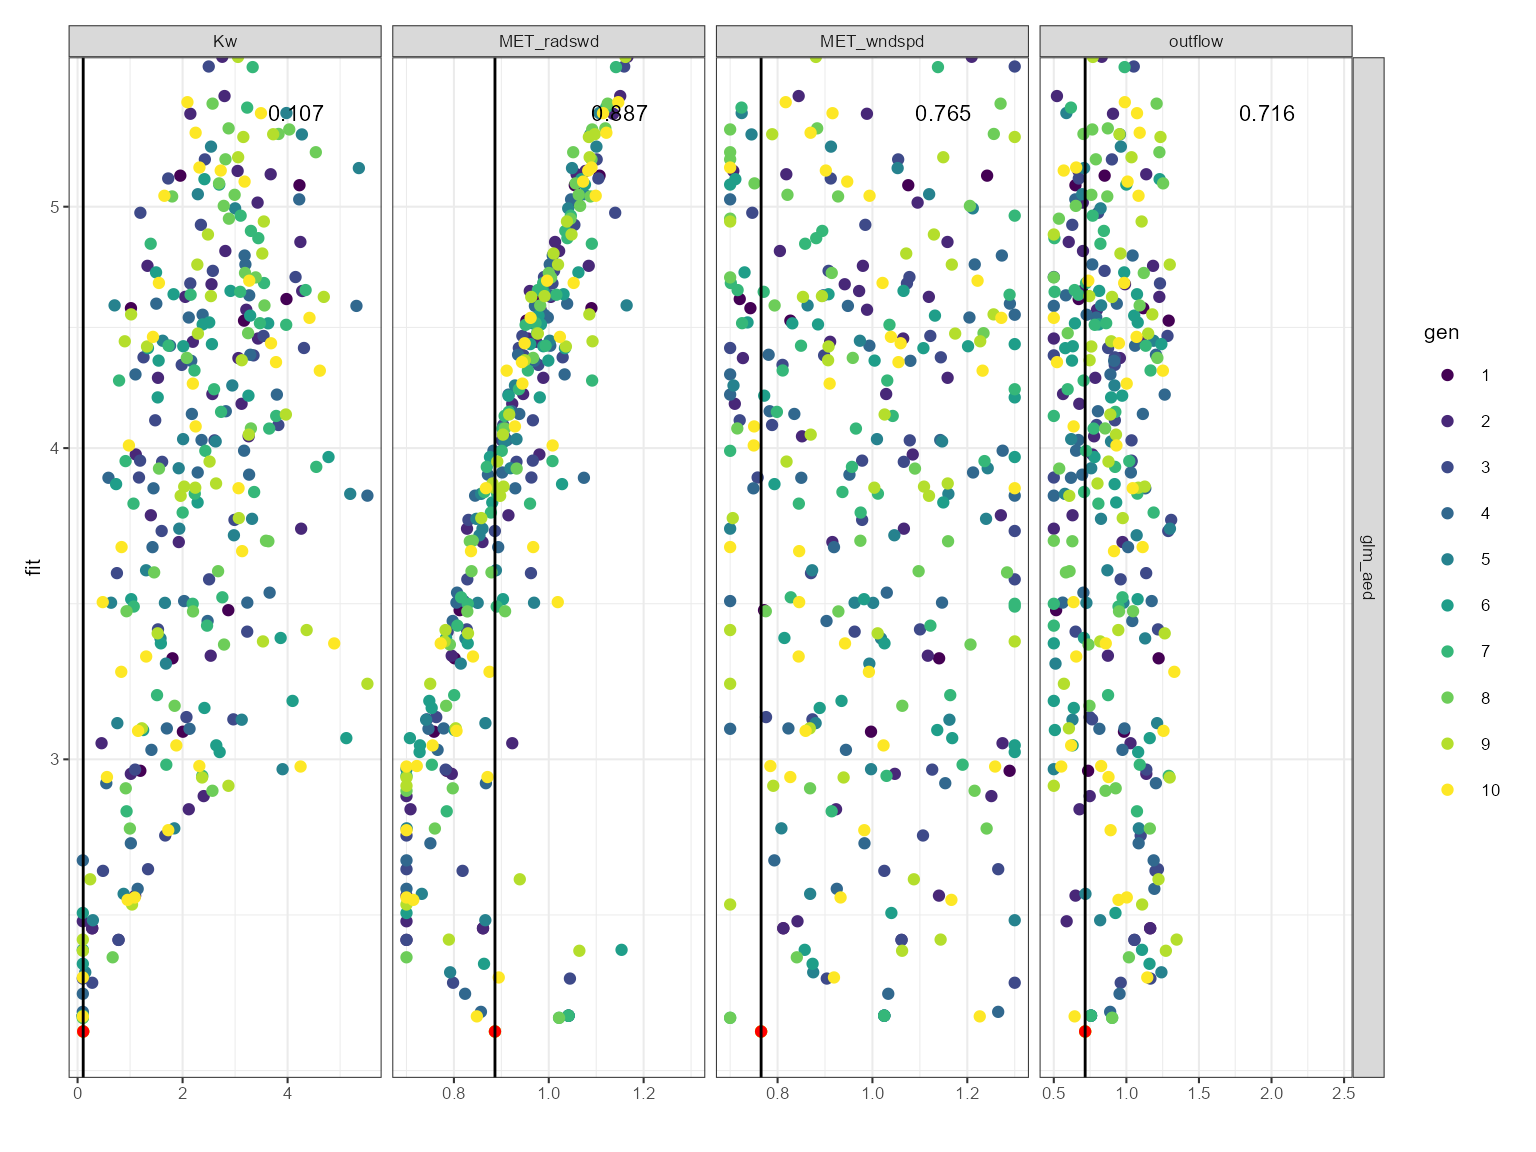
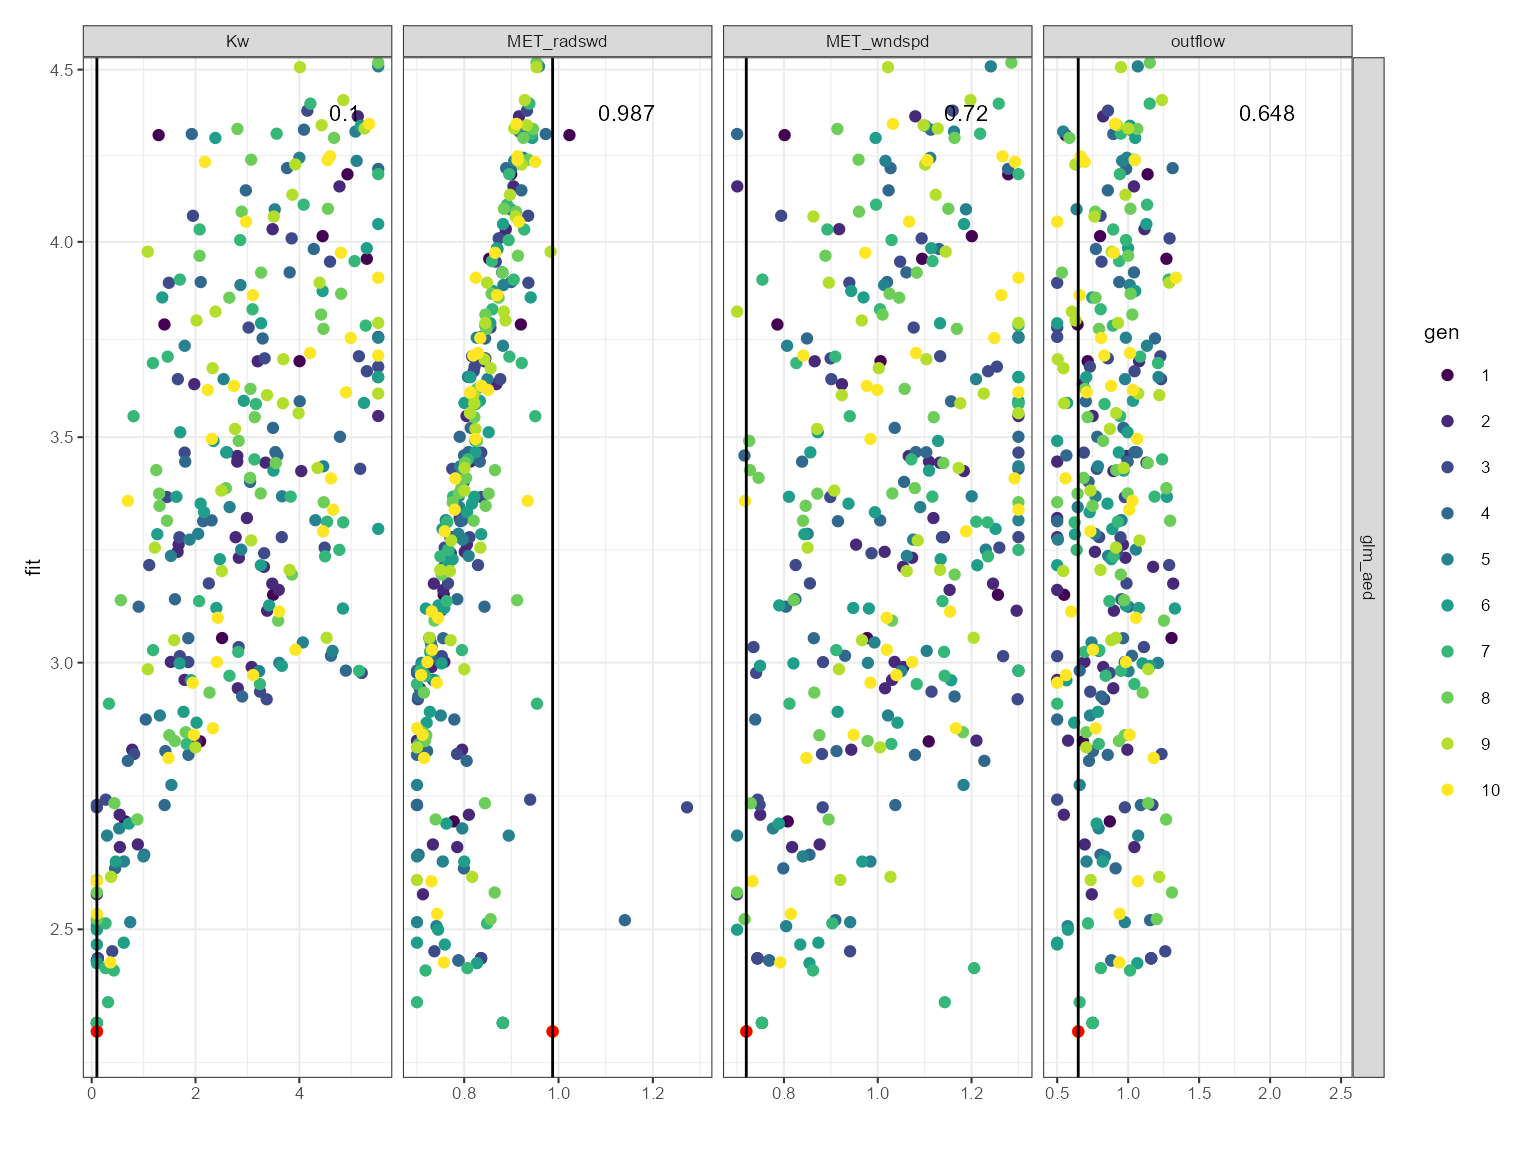
Deploying to gh-pages from @ limnotrack/aemetools@b27173b70d2d1a91780e690b47c5976b061a40e9 🚀

diff --git a/articles/calibrate-aeme.html b/articles/calibrate-aeme.html
@@ -123,7 +123,7 @@ setup. For this example, we will use the <code>glm_aed</code> model. The
 <span>                            model <span class="op">=</span> <span class="va">model</span>, mod_ctrls <span class="op">=</span> <span class="va">mod_ctrls</span>,</span>
 <span>                            inf_factor <span class="op">=</span> <span class="va">inf_factor</span>, ext_elev <span class="op">=</span> <span class="fl">5</span>,</span>
 <span>                            use_bgc <span class="op">=</span> <span class="cn">FALSE</span>, use_lw <span class="op">=</span> <span class="cn">TRUE</span><span class="op">)</span></span>
-<span><span class="co">#&gt; Building simulation for Wainamu [2023-11-02 09:55:29.867466]</span></span>
+<span><span class="co">#&gt; Building simulation for Wainamu [2023-11-03 00:59:42.915831]</span></span>
 <span><span class="co">#&gt; Using observed water level</span></span>
 <span><span class="co">#&gt; Estimating temperature using Stefan &amp; Preud'homme (2007)...</span></span>
 <span><span class="co">#&gt; Observed lake level is present. Updating initial lake model depth...</span></span>
@@ -135,9 +135,9 @@ make sure the current model setup is working.</p>
 <code class="sourceCode R"><span><span class="va">aeme_data</span> <span class="op">&lt;-</span> <span class="fu"><a href="https://rdrr.io/pkg/AEME/man/run_aeme.html" class="external-link">run_aeme</a></span><span class="op">(</span>aeme_data <span class="op">=</span> <span class="va">aeme_data</span>, model <span class="op">=</span> <span class="va">model</span>,</span>
 <span>                      verbose <span class="op">=</span> <span class="cn">FALSE</span>, mod_ctrls <span class="op">=</span> <span class="va">mod_ctrls</span>,</span>
 <span>                      path <span class="op">=</span> <span class="va">path</span><span class="op">)</span></span>
-<span><span class="co">#&gt; Running models... (Have you tried parallelizing?) [2023-11-02 09:55:31.192733]</span></span>
-<span><span class="co">#&gt; GLM-AED run successful! [2023-11-02 09:55:32.054809]</span></span>
-<span><span class="co">#&gt; Model run complete![2023-11-02 09:55:32.055938]</span></span>
+<span><span class="co">#&gt; Running models... (Have you tried parallelizing?) [2023-11-03 00:59:44.57077]</span></span>
+<span><span class="co">#&gt; GLM-AED run successful! [2023-11-03 00:59:45.437586]</span></span>
+<span><span class="co">#&gt; Model run complete![2023-11-03 00:59:45.438628]</span></span>
 <span><span class="co">#&gt; Retrieving and formatting temp for model glm_aed</span></span>
 <span><span class="co">#&gt; Retrieving and formatting salt for model glm_aed</span></span>
 <span><span class="co"># outp &lt;- AEME::output(aeme_data)</span></span>
@@ -238,9 +238,9 @@ but the model output is generate within the lake folder.</p>
 <div class="sourceCode" id="cb7"><pre class="downlit sourceCode r">
 <code class="sourceCode R"><span><span class="fu"><a href="../reference/run_aeme_param.html">run_aeme_param</a></span><span class="op">(</span>aeme_data <span class="op">=</span> <span class="va">aeme_data</span>, param <span class="op">=</span> <span class="va">aeme_parameters</span>,</span>
 <span>                 model <span class="op">=</span> <span class="va">model</span>, path <span class="op">=</span> <span class="va">path</span>, mod_ctrls <span class="op">=</span> <span class="va">mod_ctrls</span><span class="op">)</span></span>
-<span><span class="co">#&gt; Running models... (Have you tried parallelizing?) [2023-11-02 09:55:43.768336]</span></span>
-<span><span class="co">#&gt; GLM-AED run successful! [2023-11-02 09:55:44.510974]</span></span>
-<span><span class="co">#&gt; Model run complete![2023-11-02 09:55:44.512259]</span></span></code></pre></div>
+<span><span class="co">#&gt; Running models... (Have you tried parallelizing?) [2023-11-03 00:59:49.646355]</span></span>
+<span><span class="co">#&gt; GLM-AED run successful! [2023-11-03 00:59:50.492081]</span></span>
+<span><span class="co">#&gt; Model run complete![2023-11-03 00:59:50.493055]</span></span></code></pre></div>
 </div>
 <div class="section level2">
 <h2 id="calibration-setup">Calibration setup<a class="anchor" aria-label="anchor" href="#calibration-setup"></a>
@@ -374,83 +374,83 @@ values.</p>
 <span>                   param <span class="op">=</span> <span class="va">aeme_parameters</span>, model <span class="op">=</span> <span class="va">model</span>,</span>
 <span>                   mod_ctrls <span class="op">=</span> <span class="va">mod_ctrls</span>, FUN <span class="op">=</span> <span class="va">fit</span>, ctrl <span class="op">=</span> <span class="va">ctrl</span>,</span>
 <span>                   vars_sim <span class="op">=</span> <span class="va">vars_sim</span>, weights <span class="op">=</span> <span class="va">weights</span><span class="op">)</span></span>
-<span><span class="co">#&gt; Extracting indices for modelled variables [2023-11-02 09:55:44.886528]</span></span>
-<span><span class="co">#&gt; Complete! [2023-11-02 09:55:45.845645]</span></span>
+<span><span class="co">#&gt; Extracting indices for modelled variables [2023-11-03 00:59:50.892015]</span></span>
+<span><span class="co">#&gt; Complete! [2023-11-03 00:59:51.927541]</span></span>
 <span><span class="co">#&gt; Calibrating in parallel using 1 cores...</span></span>
-<span><span class="co">#&gt; Starting generation 1/10, 40 members. [2023-11-02 09:55:46.126752]</span></span>
+<span><span class="co">#&gt; Starting generation 1/10, 40 members. [2023-11-03 00:59:52.292958]</span></span>
 <span><span class="co">#&gt;        light.Kw MET_wndspd MET_radswd outflow</span></span>
-<span><span class="co">#&gt; mean      2.813     0.9997     0.9994  1.5000</span></span>
-<span><span class="co">#&gt; median    2.805     1.0040     0.9954  1.4780</span></span>
-<span><span class="co">#&gt; sd        1.596     0.1748     0.1753  0.5848</span></span>
-<span><span class="co">#&gt; Best fit: 2.566 (sd: 327.528)</span></span>
-<span><span class="co">#&gt;             Parameters: [0.278, 0.812, 0.861, 1.164]</span></span>
+<span><span class="co">#&gt; mean      2.805     0.9993     0.9998  1.5020</span></span>
+<span><span class="co">#&gt; median    2.791     0.9994     0.9957  1.4850</span></span>
+<span><span class="co">#&gt; sd        1.586     0.1740     0.1753  0.5837</span></span>
+<span><span class="co">#&gt; Best fit: 2.451 (sd: 327.23)</span></span>
+<span><span class="co">#&gt;             Parameters: [0.118, 0.743, 0.836, 1.162]</span></span>
 <span><span class="co">#&gt; Survival rate: 1</span></span>
-<span><span class="co">#&gt; Starting generation 2/10, 40 members. [2023-11-02 09:56:23.706571]</span></span>
+<span><span class="co">#&gt; Starting generation 2/10, 40 members. [2023-11-03 01:00:35.014708]</span></span>
 <span><span class="co">#&gt;        light.Kw MET_wndspd MET_radswd outflow</span></span>
-<span><span class="co">#&gt; mean      2.231     0.9955     0.9521  0.9367</span></span>
-<span><span class="co">#&gt; median    2.195     0.9887     0.9600  0.8304</span></span>
-<span><span class="co">#&gt; sd        1.111     0.1576     0.1469  0.3383</span></span>
-<span><span class="co">#&gt; Best fit: 2.5389 (sd: 209.28)</span></span>
+<span><span class="co">#&gt; mean      2.681     1.0090     0.8231  1.0320</span></span>
+<span><span class="co">#&gt; median    2.821     1.0160     0.7957  0.9629</span></span>
+<span><span class="co">#&gt; sd        1.450     0.1609     0.1153  0.4922</span></span>
+<span><span class="co">#&gt; Best fit: 2.4509 (sd: 236.8)</span></span>
 <span><span class="co">#&gt; Survival rate: 1</span></span>
-<span><span class="co">#&gt; Starting generation 3/10, 40 members. [2023-11-02 09:57:04.452477]</span></span>
+<span><span class="co">#&gt; Starting generation 3/10, 40 members. [2023-11-03 01:01:19.537972]</span></span>
 <span><span class="co">#&gt;        light.Kw MET_wndspd MET_radswd outflow</span></span>
-<span><span class="co">#&gt; mean      1.852     0.9691     0.9124  1.0240</span></span>
-<span><span class="co">#&gt; median    1.669     0.9782     0.9369  1.0350</span></span>
-<span><span class="co">#&gt; sd        1.117     0.1821     0.1250  0.2884</span></span>
-<span><span class="co">#&gt; Best fit: 2.3672 (sd: 186.66)</span></span>
+<span><span class="co">#&gt; mean      2.770     1.0080     0.8536  1.0050</span></span>
+<span><span class="co">#&gt; median    2.831     0.9661     0.8222  0.9764</span></span>
+<span><span class="co">#&gt; sd        1.727     0.1936     0.1498  0.3299</span></span>
+<span><span class="co">#&gt; Best fit: 2.4474 (sd: 185.47)</span></span>
 <span><span class="co">#&gt; Survival rate: 1</span></span>
-<span><span class="co">#&gt; Starting generation 4/10, 40 members. [2023-11-02 09:57:44.311551]</span></span>
+<span><span class="co">#&gt; Starting generation 4/10, 40 members. [2023-11-03 01:02:04.70572]</span></span>
 <span><span class="co">#&gt;        light.Kw MET_wndspd MET_radswd outflow</span></span>
-<span><span class="co">#&gt; mean      2.207     0.9835    0.90330  0.9684</span></span>
-<span><span class="co">#&gt; median    2.132     0.9515    0.91520  0.9530</span></span>
-<span><span class="co">#&gt; sd        1.334     0.1981    0.09978  0.3292</span></span>
-<span><span class="co">#&gt; Best fit: 2.3672 (sd: 178.18)</span></span>
+<span><span class="co">#&gt; mean      2.624     1.0140     0.8439  0.9268</span></span>
+<span><span class="co">#&gt; median    2.898     1.0360     0.8139  0.9114</span></span>
+<span><span class="co">#&gt; sd        1.529     0.1776     0.1146  0.2417</span></span>
+<span><span class="co">#&gt; Best fit: 2.345 (sd: 118.21)</span></span>
 <span><span class="co">#&gt; Survival rate: 1</span></span>
-<span><span class="co">#&gt; Starting generation 5/10, 40 members. [2023-11-02 09:58:24.238746]</span></span>
+<span><span class="co">#&gt; Starting generation 5/10, 40 members. [2023-11-03 01:02:50.378204]</span></span>
 <span><span class="co">#&gt;        light.Kw MET_wndspd MET_radswd outflow</span></span>
-<span><span class="co">#&gt; mean      2.077     0.9951     0.9518  1.0320</span></span>
-<span><span class="co">#&gt; median    1.926     0.9981     0.9192  0.9525</span></span>
-<span><span class="co">#&gt; sd        1.385     0.1605     0.1509  0.3898</span></span>
-<span><span class="co">#&gt; Best fit: 2.3672 (sd: 234.4)</span></span>
+<span><span class="co">#&gt; mean      3.017     1.0520    0.82450  1.0200</span></span>
+<span><span class="co">#&gt; median    2.968     1.0670    0.80030  0.9763</span></span>
+<span><span class="co">#&gt; sd        1.734     0.1775    0.09415  0.4058</span></span>
+<span><span class="co">#&gt; Best fit: 2.345 (sd: 223.28)</span></span>
 <span><span class="co">#&gt; Survival rate: 1</span></span>
-<span><span class="co">#&gt; Starting generation 6/10, 40 members. [2023-11-02 09:59:03.697887]</span></span>
+<span><span class="co">#&gt; Starting generation 6/10, 40 members. [2023-11-03 01:03:34.892398]</span></span>
 <span><span class="co">#&gt;        light.Kw MET_wndspd MET_radswd outflow</span></span>
-<span><span class="co">#&gt; mean      2.439     1.0060     0.9818  0.9572</span></span>
-<span><span class="co">#&gt; median    2.559     1.0070     0.9834  0.9191</span></span>
-<span><span class="co">#&gt; sd        1.266     0.1907     0.1682  0.4285</span></span>
-<span><span class="co">#&gt; Best fit: 2.3672 (sd: 180.42)</span></span>
+<span><span class="co">#&gt; mean      2.562     0.9847    0.80870  0.9324</span></span>
+<span><span class="co">#&gt; median    2.175     0.9670    0.80610  0.9340</span></span>
+<span><span class="co">#&gt; sd        1.730     0.1790    0.07234  0.3289</span></span>
+<span><span class="co">#&gt; Best fit: 2.345 (sd: 182.9)</span></span>
 <span><span class="co">#&gt; Survival rate: 1</span></span>
-<span><span class="co">#&gt; Starting generation 7/10, 40 members. [2023-11-02 09:59:44.33609]</span></span>
+<span><span class="co">#&gt; Starting generation 7/10, 40 members. [2023-11-03 01:04:19.840863]</span></span>
 <span><span class="co">#&gt;        light.Kw MET_wndspd MET_radswd outflow</span></span>
-<span><span class="co">#&gt; mean      2.432     0.9690     0.9552  0.9164</span></span>
-<span><span class="co">#&gt; median    2.433     0.9652     0.9622  0.8449</span></span>
-<span><span class="co">#&gt; sd        1.127     0.1882     0.1133  0.3463</span></span>
-<span><span class="co">#&gt; Best fit: 2.3624 (sd: 185.12)</span></span>
+<span><span class="co">#&gt; mean      2.761     1.0540     0.8421  1.0120</span></span>
+<span><span class="co">#&gt; median    2.823     1.0830     0.8448  0.9382</span></span>
+<span><span class="co">#&gt; sd        1.745     0.1878     0.1110  0.3733</span></span>
+<span><span class="co">#&gt; Best fit: 2.3313 (sd: 189.96)</span></span>
 <span><span class="co">#&gt; Survival rate: 1</span></span>
-<span><span class="co">#&gt; Starting generation 8/10, 40 members. [2023-11-02 10:00:24.860836]</span></span>
+<span><span class="co">#&gt; Starting generation 8/10, 40 members. [2023-11-03 01:05:04.352137]</span></span>
 <span><span class="co">#&gt;        light.Kw MET_wndspd MET_radswd outflow</span></span>
-<span><span class="co">#&gt; mean      2.505     0.9519     0.9560  1.0160</span></span>
-<span><span class="co">#&gt; median    2.763     0.9276     0.9752  0.9019</span></span>
-<span><span class="co">#&gt; sd        1.120     0.1999     0.1303  0.4465</span></span>
-<span><span class="co">#&gt; Best fit: 2.3328 (sd: 220.6)</span></span>
+<span><span class="co">#&gt; mean      2.706     0.9856    0.84790  1.0410</span></span>
+<span><span class="co">#&gt; median    2.832     0.9955    0.84500  1.0000</span></span>
+<span><span class="co">#&gt; sd        1.507     0.1778    0.09623  0.3859</span></span>
+<span><span class="co">#&gt; Best fit: 2.3313 (sd: 203.18)</span></span>
 <span><span class="co">#&gt; Survival rate: 1</span></span>
-<span><span class="co">#&gt; Starting generation 9/10, 40 members. [2023-11-02 10:01:04.453316]</span></span>
+<span><span class="co">#&gt; Starting generation 9/10, 40 members. [2023-11-03 01:05:48.448981]</span></span>
 <span><span class="co">#&gt;        light.Kw MET_wndspd MET_radswd outflow</span></span>
-<span><span class="co">#&gt; mean      2.382     0.9625     0.9453  1.0000</span></span>
-<span><span class="co">#&gt; median    2.483     0.9392     0.9389  0.9590</span></span>
-<span><span class="co">#&gt; sd        1.329     0.1873     0.1499  0.2754</span></span>
-<span><span class="co">#&gt; Best fit: 2.3328 (sd: 153.71)</span></span>
+<span><span class="co">#&gt; mean      3.216     1.0540     0.8740  0.9471</span></span>
+<span><span class="co">#&gt; median    3.508     1.0850     0.8450  0.9145</span></span>
+<span><span class="co">#&gt; sd        1.564     0.1504     0.1162  0.3508</span></span>
+<span><span class="co">#&gt; Best fit: 2.3313 (sd: 180.54)</span></span>
 <span><span class="co">#&gt; Survival rate: 1</span></span>
-<span><span class="co">#&gt; Starting generation 10/10, 40 members. [2023-11-02 10:01:43.963268]</span></span>
+<span><span class="co">#&gt; Starting generation 10/10, 40 members. [2023-11-03 01:06:33.871577]</span></span>
 <span><span class="co">#&gt;        light.Kw MET_wndspd MET_radswd outflow</span></span>
-<span><span class="co">#&gt; mean      2.144     0.9533     0.9218  0.9713</span></span>
-<span><span class="co">#&gt; median    2.092     0.9189     0.9133  0.9488</span></span>
-<span><span class="co">#&gt; sd        1.349     0.1756     0.1348  0.3362</span></span>
-<span><span class="co">#&gt; Best fit: 2.3328 (sd: 196.77)</span></span>
+<span><span class="co">#&gt; mean      2.871     1.0210    0.81990  0.9874</span></span>
+<span><span class="co">#&gt; median    2.740     1.0190    0.81290  0.9404</span></span>
+<span><span class="co">#&gt; sd        1.666     0.1819    0.09704  0.3621</span></span>
+<span><span class="co">#&gt; Best fit: 2.3313 (sd: 221.66)</span></span>
 <span><span class="co">#&gt; Survival rate: 1</span></span></code></pre></div>
 </div>
-<div class="section level2 tabset">
-<h2 class="tabset" id="visualise-calibration-results">Visualise calibration results<a class="anchor" aria-label="anchor" href="#visualise-calibration-results"></a>
+<div class="section level2">
+<h2 id="visualise-calibration-results">Visualise calibration results<a class="anchor" aria-label="anchor" href="#visualise-calibration-results"></a>
 </h2>
 <p>The calibrations results can be read in using the
 <code>read_calib</code> function. This function takes the following
@@ -479,25 +479,15 @@ function. This function takes the following arguments:</p>
 calibration.</li>
 </ul>
 <p>And returns a list of ggplot objects: a dotty plot, density plot and
-caterpillar plot.</p>
-
-
-
-
-<ul class="nav nav-tabs" id="visualise-calibration-results" role="tablist">
-<li role="presentation" class="nav-item"><button data-bs-toggle="tab" data-bs-target="#NA" id="NA-tab" type="button" role="tab" aria-controls="NA" aria-selected="true" class="active nav-link">
+convergence plot.</p>
+<div class="sourceCode" id="cb12"><pre class="downlit sourceCode r">
 <code class="sourceCode R"><span></span>
 <span><span class="va">calib_res</span> <span class="op">&lt;-</span> <span class="fu"><a href="../reference/read_calib.html">read_calib</a></span><span class="op">(</span>ctrl <span class="op">=</span> <span class="va">ctrl</span>, model <span class="op">=</span> <span class="va">model</span><span class="op">)</span></span>
 <span><span class="va">plist</span> <span class="op">&lt;-</span> <span class="fu"><a href="../reference/plot_calib.html">plot_calib</a></span><span class="op">(</span>calib <span class="op">=</span> <span class="va">calib_res</span>, model <span class="op">=</span> <span class="va">model</span>, </span>
-<span>                      na_value <span class="op">=</span> <span class="va">ctrl</span><span class="op">$</span><span class="va">na_value</span><span class="op">)</span></span></code></button></li>
-<li role="presentation" class="nav-item"><button data-bs-toggle="tab" data-bs-target="#dotty-plot" id="dotty-plot-tab" type="button" role="tab" aria-controls="dotty-plot" aria-selected="false" class="nav-link">Dotty plot</button></li>
-<li role="presentation" class="nav-item"><button data-bs-toggle="tab" data-bs-target="#histogram-plot" id="histogram-plot-tab" type="button" role="tab" aria-controls="histogram-plot" aria-selected="false" class="nav-link">Histogram plot</button></li>
-<li role="presentation" class="nav-item"><button data-bs-toggle="tab" data-bs-target="#convergence-plot" id="convergence-plot-tab" type="button" role="tab" aria-controls="convergence-plot" aria-selected="false" class="nav-link">Convergence plot</button></li>
-</ul>
-<div class="tab-content">
-<div class="active  tab-pane" id="NA" role="tabpanel" aria-labelledby="NA-tab"></div>
-<div class="tab-pane" id="dotty-plot" role="tabpanel" aria-labelledby="dotty-plot-tab">
-
+<span>                      na_value <span class="op">=</span> <span class="va">ctrl</span><span class="op">$</span><span class="va">na_value</span><span class="op">)</span></span></code></pre></div>
+<div class="section level3">
+<h3 id="dotty-plot">Dotty plot<a class="anchor" aria-label="anchor" href="#dotty-plot"></a>
+</h3>
 <p>This can be used for comparing sensitivity across parameters. The
 dotty plot shows the fitness value for each parameter value for each
 generation. The fitness value is on the y-axis and the parameter value
@@ -508,8 +498,9 @@ generation is shown as a black line with a red dot.</p>
 <code class="sourceCode R"><span><span class="va">plist</span><span class="op">$</span><span class="va">dotty</span></span></code></pre></div>
 <p><img src="calibrate-aeme_files/figure-html/dotty-plot-1.png" width="768"></p>
 </div>
-<div class="tab-pane" id="histogram-plot" role="tabpanel" aria-labelledby="histogram-plot-tab">
-
+<div class="section level3">
+<h3 id="histogram-plot">Histogram plot<a class="anchor" aria-label="anchor" href="#histogram-plot"></a>
+</h3>
 <p>This is useful for comparing the distribution of parameter values
 across generations. The histogram plot shows the frequency of the
 parameter values for each generation. The parameter values are on the
@@ -523,8 +514,9 @@ then the histogram will show a flat distribution.</p>
 <span><span class="va">plist</span><span class="op">$</span><span class="va">hist</span></span></code></pre></div>
 <p><img src="calibrate-aeme_files/figure-html/histogram-plot-1.png" width="768"></p>
 </div>
-<div class="tab-pane" id="convergence-plot" role="tabpanel" aria-labelledby="convergence-plot-tab">
-
+<div class="section level3">
+<h3 id="convergence-plot">Convergence plot<a class="anchor" aria-label="anchor" href="#convergence-plot"></a>
+</h3>
 <p>This is more generally used for assessing model convergence. The
 convergence plot shows the values use over the iterations. The parameter
 value is on the y-axis and the iteration is on the x-axis. It is faceted
@@ -534,7 +526,6 @@ solid horizontal black line.</p>
 <div class="sourceCode" id="cb15"><pre class="downlit sourceCode r">
 <code class="sourceCode R"><span><span class="va">plist</span><span class="op">$</span><span class="va">convergence</span></span></code></pre></div>
 <p><img src="calibrate-aeme_files/figure-html/convergence-plot-1.png" width="768"></p>
-</div>
 </div>
 </div>
   </main><aside class="col-md-3"><nav id="toc"><h2>On this page</h2>

diff --git a/articles/download-era5.html b/articles/download-era5.html
@@ -95,8 +95,8 @@ your computer to speed up the download.</p>
 <span><span class="va">met</span> <span class="op">&lt;-</span> <span class="fu"><a href="../reference/get_era5_point.html">get_era5_point</a></span><span class="op">(</span>lat <span class="op">=</span> <span class="va">lat</span>, lon <span class="op">=</span> <span class="va">lon</span>, years <span class="op">=</span> <span class="fl">2000</span><span class="op">:</span><span class="fl">2001</span>,</span>
 <span>                      variables <span class="op">=</span> <span class="va">variables</span>, format <span class="op">=</span> <span class="st">"aeme"</span>, parallel <span class="op">=</span> <span class="cn">TRUE</span><span class="op">)</span></span>
 <span><span class="co">#&gt; Auto-refreshing stale OAuth token.</span></span>
-<span><span class="co">#&gt; Downloading ERA5 variables in parallel... [2023-11-02 10:02:36.392909]</span></span>
-<span><span class="co">#&gt; Finished downloading ERA5 variables! [2023-11-02 10:02:49.884292]</span></span>
+<span><span class="co">#&gt; Downloading ERA5 variables in parallel... [2023-11-03 01:07:34.363869]</span></span>
+<span><span class="co">#&gt; Finished downloading ERA5 variables! [2023-11-03 01:07:48.387563]</span></span>
 <span><span class="fu"><a href="https://rdrr.io/r/base/summary.html" class="external-link">summary</a></span><span class="op">(</span><span class="va">met</span><span class="op">)</span></span>
 <span><span class="co">#&gt;       Date              MET_tmpair       MET_pprain     </span></span>
 <span><span class="co">#&gt;  Min.   :2000-01-01   Min.   : 3.407   Min.   : 0.0000  </span></span>
